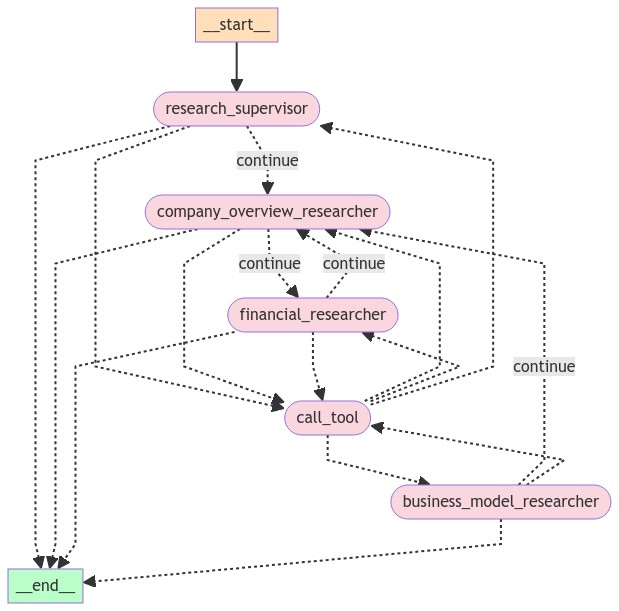
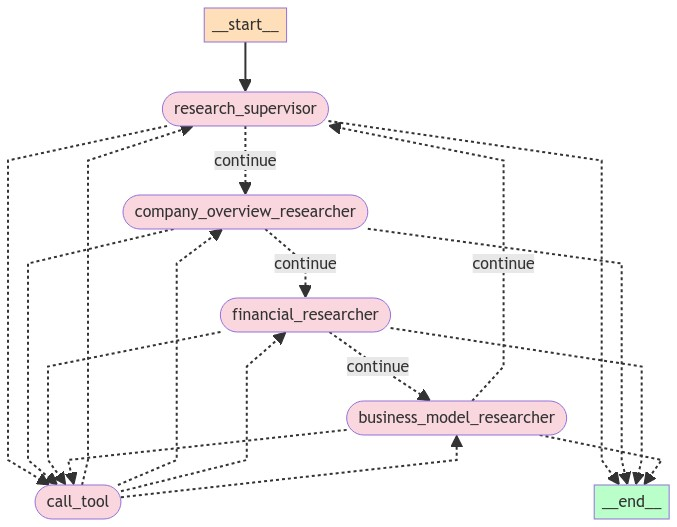
updated langgraph flow and prompts

diff --git a/multi_agent_research_assistant.py b/multi_agent_research_assistant.py
@@ -9,28 +9,19 @@ from langchain_core.messages import (
     ToolMessage,
 )
 from langchain_core.prompts import ChatPromptTemplate, MessagesPlaceholder
-
 from langgraph.graph import END, StateGraph
-
-from typing import Annotated
-
 from langchain_community.tools.tavily_search import TavilySearchResults
 from langchain_core.tools import tool
 from langchain_experimental.utilities import PythonREPL
-
-import operator
-from typing import Annotated, Sequence, TypedDict
-
 from langchain_openai import ChatOpenAI
 from langchain_google_genai import ChatGoogleGenerativeAI
-
-import functools
-
 from langchain_core.messages import AIMessage
-
 from langgraph.prebuilt import ToolNode
 
-from typing import Literal
+import operator
+from typing import Annotated, Sequence, TypedDict, Literal
+import functools
+from ipdb import set_trace as ipdb
 # }}} 
 # {{{ langsmith keys 
 LANGCHAIN_TRACING_V2=os.getenv('LANGCHAIN_TRACING_V2')
@@ -42,6 +33,8 @@ GEMINI_API_KEY = os.getenv('GEMINI_API_KEY')
 # llm = ChatOpenAI(model="gpt-4-1106-preview")
 llm = ChatGoogleGenerativeAI(model='gemini-1.5-flash', google_api_key=GEMINI_API_KEY, temperature=0.0)
 # {{{  DEF: create_agent
+                # " If you or any of the other assistants have the final answer or deliverable,"
+                # " prefix your response with FINAL ANSWER so the team knows to stop."
 
 def create_agent(llm, tools, system_message: str):
     """Create an agent"""
@@ -50,10 +43,10 @@ def create_agent(llm, tools, system_message: str):
             (
                 "system",
                 "You are an expert researcher, collaborating with other assistant researchers, all skilled at researching private companies and producing informative, descriptive and factual analysis."
-                " If you are unable to fully answer, that's okay, other assistant with different tools will"
-                " help with where you left off."
-                " If you or any of the other assistants have the final answer or deliverable,"
-                " prefix your response with FINAL ANSWER so the team knows to stop."
+                # " If you are unable to fully answer, that's okay, other assistant with different tools will"
+                # " help with where you left off."
+                " If you think there should be more information, continue. Once you think there is enough descriptive information on the research, prefix your answer with FINAL ANSWER so the team can stop."
+                # " Complete your research within 2 minutes, once done, prefix your answer with FINAL ANSWER so the team can stop."
             ),
             MessagesPlaceholder(variable_name="messages"),
         ]
@@ -65,7 +58,7 @@ def create_agent(llm, tools, system_message: str):
 # }}} 
 # {{{ tools 
 
-tavily_tool = TavilySearchResults(max_results=20)
+tavily_tool = TavilySearchResults(max_results=10)
 # }}} 
 # {{{ CLASS: AgentState 
 
@@ -89,11 +82,14 @@ def agent_node(state, agent, name):
         "sender": name,
     }
 # }}} 
-# {{{ create different agents
+# {{{ create agents
 research_supervisor_agent = create_agent(
     llm,
     [tavily_tool],
-    system_message="You are the the most senior and experienced private equity company research manager. You have a team of assistants - 'company_overview_research_agent', 'financial_research_agent', 'business_model_agent'. For the company input, delegate each task to different assistants. Check if there is sufficient information available at each step. If not, reach out to the assistant giving directions. Your task is to compile all the information provided by other assistants and organize it as a company research report. If an assistant is struggling to find right context, give directions that might help. The final answer should include all the necessary information in well formatted manner."
+    system_message="You are the the most senior and experienced private equity company research manager. You have a team of assistants - 'company_overview_research_agent', 'financial_research_agent', 'business_model_agent', 'key_products_or_services_researcher_agent'. For the company input, delegate each task to different assistants. Your task is to compile all the information provided by other assistants and organize it as a company research report. The final answer should include all the necessary information in well formatted manner."
+# " You can ask for more information to other assistants but only twice. Do not reach out for more information more than twice."
+# " Once you thinkthere is enough information on the research,"
+# " prefix your response with FINAL ANSWER so the team knows to stop. Do not go too deep into research."
 )
 research_supervisor_node = functools.partial(agent_node, agent=research_supervisor_agent, name="research_supervisor")
 
@@ -118,6 +114,13 @@ business_model_agent = create_agent(
 )
 business_model_research_node = functools.partial(agent_node, agent=business_model_agent, name="business_model_researcher")
 
+# key_products_or_services_researcher_agent = create_agent(
+#     llm,
+#     [tavily_tool],
+#     system_message="You are a highly experienced private company researcher skilled at understanding company's key products/services/unique selling points etc. Your goal is to contribute to 'Key Products/Services' part of company research report I'm working on."
+# )
+# key_products_or_services_researcher_node = functools.partial(agent_node, key_products_or_services_researcher_agent, name="key_products_or_services_researcher")
+
 tools = [tavily_tool]
 tool_node = ToolNode(tools)
 # }}} 
@@ -141,10 +144,15 @@ workflow.add_node("research_supervisor", research_supervisor_node)
 workflow.add_node("company_overview_researcher", research_node)
 workflow.add_node("financial_researcher", financial_research_node)
 workflow.add_node("business_model_researcher", business_model_research_node)
+# workflow.add_node("key_products_or_services_researcher", key_products_or_services_researcher_node)
 workflow.add_node("call_tool", tool_node)
 
-# {{{ edges 
+# {{{ edges
 
+# workflow.add_edge(
+#     "research_supervisor",
+#     "key_products_or_services_researcher"
+# )
 # workflow.add_edge(
 #     "research_supervisor",
 #     "company_overview_researcher"
@@ -157,7 +165,7 @@ workflow.add_node("call_tool", tool_node)
 #     "research_supervisor",
 #     "financial_researcher"
 # )
-# }}} 
+# }}}
 # {{{ conditional edges 
 
 workflow.add_conditional_edges(
@@ -190,7 +198,17 @@ workflow.add_conditional_edges(
     router,
     {"continue": "business_model_researcher", "call_tool": "call_tool", "__end__": END},
 )
- 
+workflow.add_conditional_edges(
+    "business_model_researcher",
+    router,
+    {"continue": "research_supervisor", "call_tool": "call_tool", "__end__": END},
+)
+# workflow.add_conditional_edges(
+#     "key_products_or_services_researcher",
+#     router,
+#     {"continue": "research_supervisor", "call_tool": "call_tool", "__end__": END},    
+# )
+
 workflow.add_conditional_edges(
     "call_tool",
     # Each agent node updates the 'sender' field
@@ -203,6 +221,7 @@ workflow.add_conditional_edges(
         "company_overview_researcher": "company_overview_researcher",
         "financial_researcher": "financial_researcher",
         "business_model_researcher": "business_model_researcher",
+        # "key_products_or_services_researcher": "key_products_or_services_researcher"
     },
 )
 # }}}
@@ -229,8 +248,10 @@ output = graph.invoke({"messages": [HumanMessage(content="""Research for US comp
 1. Company Overview
 2. Company Financials
 3. Company Business Model
-Once done, finish.""")]})
+4. Key Products/Services
+Once done, finish.""")]}, {"recursion_limit": 150})
 
+# {{{ stream
 
 # events = graph.stream(
 #     {
@@ -246,3 +267,4 @@ Once done, finish.""")]})
 # for s in events:
 #     print(s)
 #     print("----")
+# }}} 
